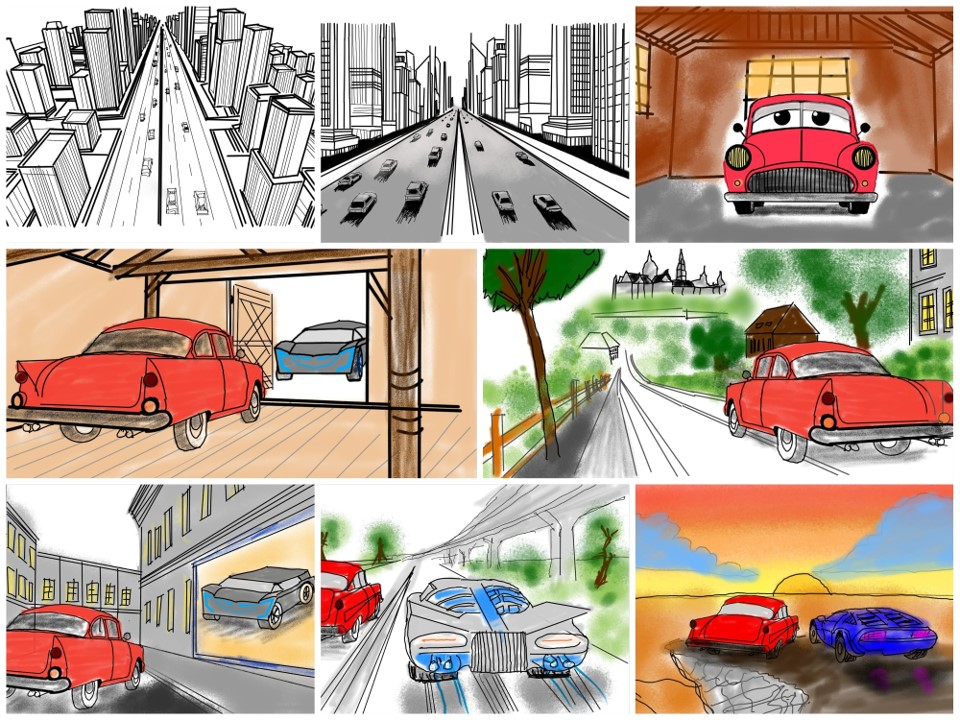
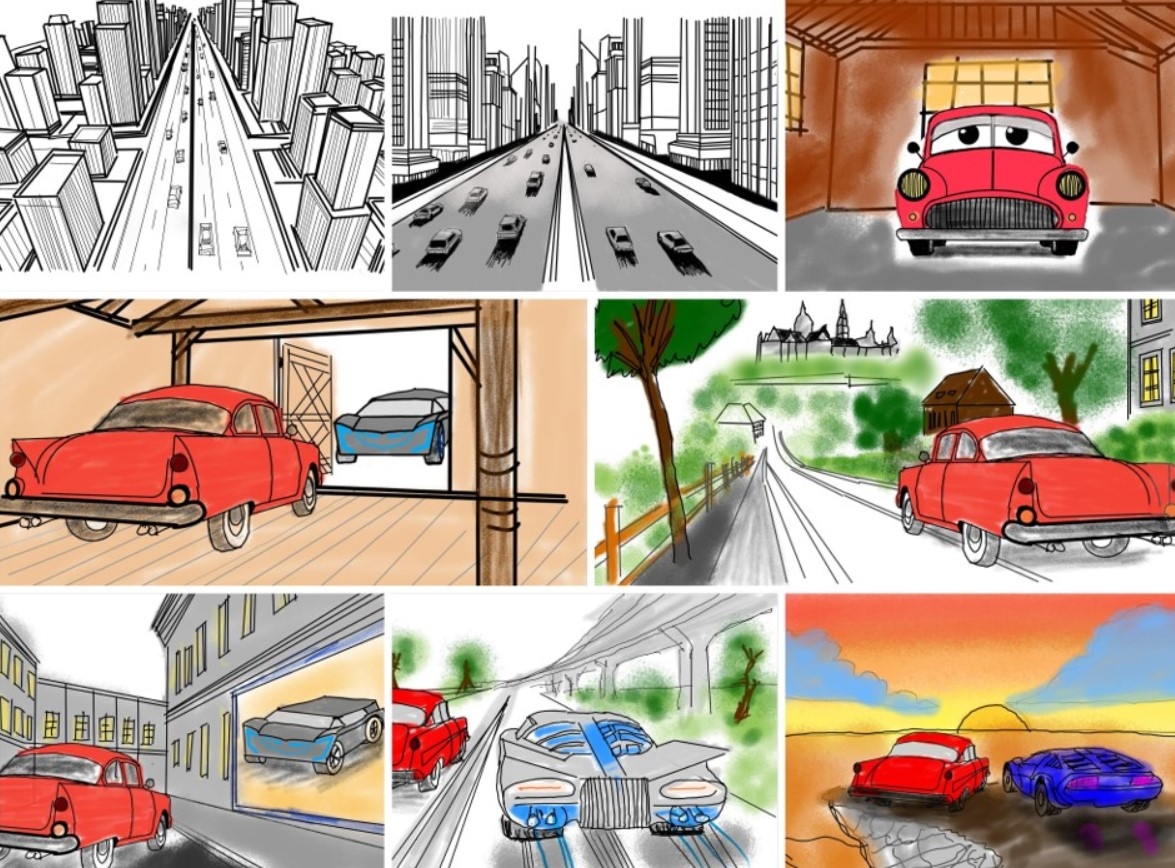
Updated Storyboard

diff --git a/src/app/containers/milestones.tsx b/src/app/containers/milestones.tsx
@@ -14,47 +14,55 @@ export default function Milestones() {
           {
             title: 'Storyboard',
             date: '2025-01-23',
-            image: 'https://placehold.co/350',
+            image: 'images/storyboard.jpg',
           },
           {
             title: 'Models',
             date: '2023-01-30',
-            image: 'https://placehold.co/350',
+            image:
+              'https://bbsupply.ca/wp-content/uploads/2018/11/Image-Coming-Soon-Placeholder.png',
           },
           {
             title: 'Textures',
             date: '2023-02-06',
-            image: 'https://placehold.co/350',
+            image:
+              'https://bbsupply.ca/wp-content/uploads/2018/11/Image-Coming-Soon-Placeholder.png',
           },
           {
             title: 'Animations',
             date: '2023-02-13',
-            image: 'https://placehold.co/350',
+            image:
+              'https://bbsupply.ca/wp-content/uploads/2018/11/Image-Coming-Soon-Placeholder.png',
           },
           {
             title: 'Polish',
             date: '2023-02-20',
-            image: 'https://placehold.co/350',
+            image:
+              'https://bbsupply.ca/wp-content/uploads/2018/11/Image-Coming-Soon-Placeholder.png',
           },
           {
             title: 'Renders',
             date: '2023-02-27',
-            image: 'https://placehold.co/350',
+            image:
+              'https://bbsupply.ca/wp-content/uploads/2018/11/Image-Coming-Soon-Placeholder.png',
           },
           {
             title: 'Sound Design',
             date: '2023-03-06',
-            image: 'https://placehold.co/350',
+            image:
+              'https://bbsupply.ca/wp-content/uploads/2018/11/Image-Coming-Soon-Placeholder.png',
           },
           {
             title: 'Editing',
             date: '2023-03-13',
-            image: 'https://placehold.co/350',
+            image:
+              'https://bbsupply.ca/wp-content/uploads/2018/11/Image-Coming-Soon-Placeholder.png',
           },
           {
             title: 'Review',
             date: '2023-03-20',
-            image: 'https://placehold.co/350',
+            image:
+              'https://bbsupply.ca/wp-content/uploads/2018/11/Image-Coming-Soon-Placeholder.png',
           },
         ].map((milestone, index) => (
           <MilestoneItem

diff --git a/src/app/containers/storyboard.tsx b/src/app/containers/storyboard.tsx
@@ -1,13 +1,59 @@
 const commonStyles = 'w-full flex flex-col items-center';
 const titleStyles = 'border-b-2 border-tertiary text-4xl font-bold mt-16 mb-4';
 
+import StoryboardItem from '../components/storyboardItem';
+
 export default function Storyboard() {
   return (
     <div id="storyboard" className={`${commonStyles}`}>
       <h1 className={`${titleStyles} w-3/4 text-center`} data-aos="fade-up">
         Storyboard
       </h1>
-      <img src="images/storyboard.jpg" />
+      <ul className="w-4/5">
+        {[
+          {
+            image: 'images/storyboard1.jpg',
+            desc: 'Description',
+          },
+          {
+            image: 'images/storyboard2.jpg',
+            desc: 'Description',
+          },
+          {
+            image: 'images/storyboard3.jpg',
+            desc: 'Description',
+          },
+          {
+            image: 'images/storyboard4.jpg',
+            desc: 'Description',
+          },
+          {
+            image: 'images/storyboard5.jpg',
+            desc: 'Description',
+          },
+          {
+            image: 'images/storyboard6.jpg',
+            desc: 'Description',
+          },
+          {
+            image: 'images/storyboard7.jpg',
+            desc: 'Description',
+          },
+          {
+            image: 'images/storyboard8.jpg',
+            desc: 'Description',
+          },
+        ].map((milestone, index) => (
+          <li key={index}>
+            <StoryboardItem
+              image={milestone.image}
+              desc={milestone.desc}
+              reverse={index % 2 === 1}
+            />
+            {index < 7 && <hr className="my-4 border-gray-500" />}
+          </li>
+        ))}
+      </ul>
     </div>
   );
 }

diff --git a/src/app/components/storyboardItem.tsx b/src/app/components/storyboardItem.tsx
@@ -1,0 +1,27 @@
+import React from 'react';
+
+const StoryboardItem = ({
+  image,
+  desc,
+  reverse,
+}: {
+  image: string;
+  desc: string;
+  reverse?: boolean;
+}) => {
+  return (
+    <li
+      className={`flex ${
+        reverse ? 'flex-row-reverse' : 'flex-row'
+      } items-center justify-between`}
+      data-aos="fade-up"
+    >
+      <img src={image} alt={desc} className="h-1/3" />
+      <div className="flex-1 flex justify-center">
+        <p className="p-4 text-center">{desc}</p>
+      </div>
+    </li>
+  );
+};
+
+export default StoryboardItem;

diff --git a/src/app/components/milestoneItem.tsx b/src/app/components/milestoneItem.tsx
@@ -9,12 +9,11 @@ const MilestoneItem = ({
 }) => {
   return (
     <li className="flex flex-col items-center" data-aos="fade-up">
-      <div className="relative group"></div>
-      <div className="transition-transform transform group-hover:scale-105">
+      <div className="">
         <img
           src={image}
           alt={title}
-          className="rounded-full"
+          className="w-64 h-64"
           style={{ borderRadius: '5%' }}
         />
         <h3 className="mt-2 text-xl font-semibold">{title}</h3>

diff --git a/src/app/containers/hero.tsx b/src/app/containers/hero.tsx
@@ -18,7 +18,7 @@ export default function Hero() {
           </h2>
         ),
       )}
-      <p className="w-1/5 text-center mt-16" data-aos="fade-up">
+      <p className="w-2/5 text-center mt-16" data-aos="fade-up">
         A short animated video exploring themes of nostalgia, connection, and
         hope through the perspective of two cars—one modern, one vintage.
       </p>
